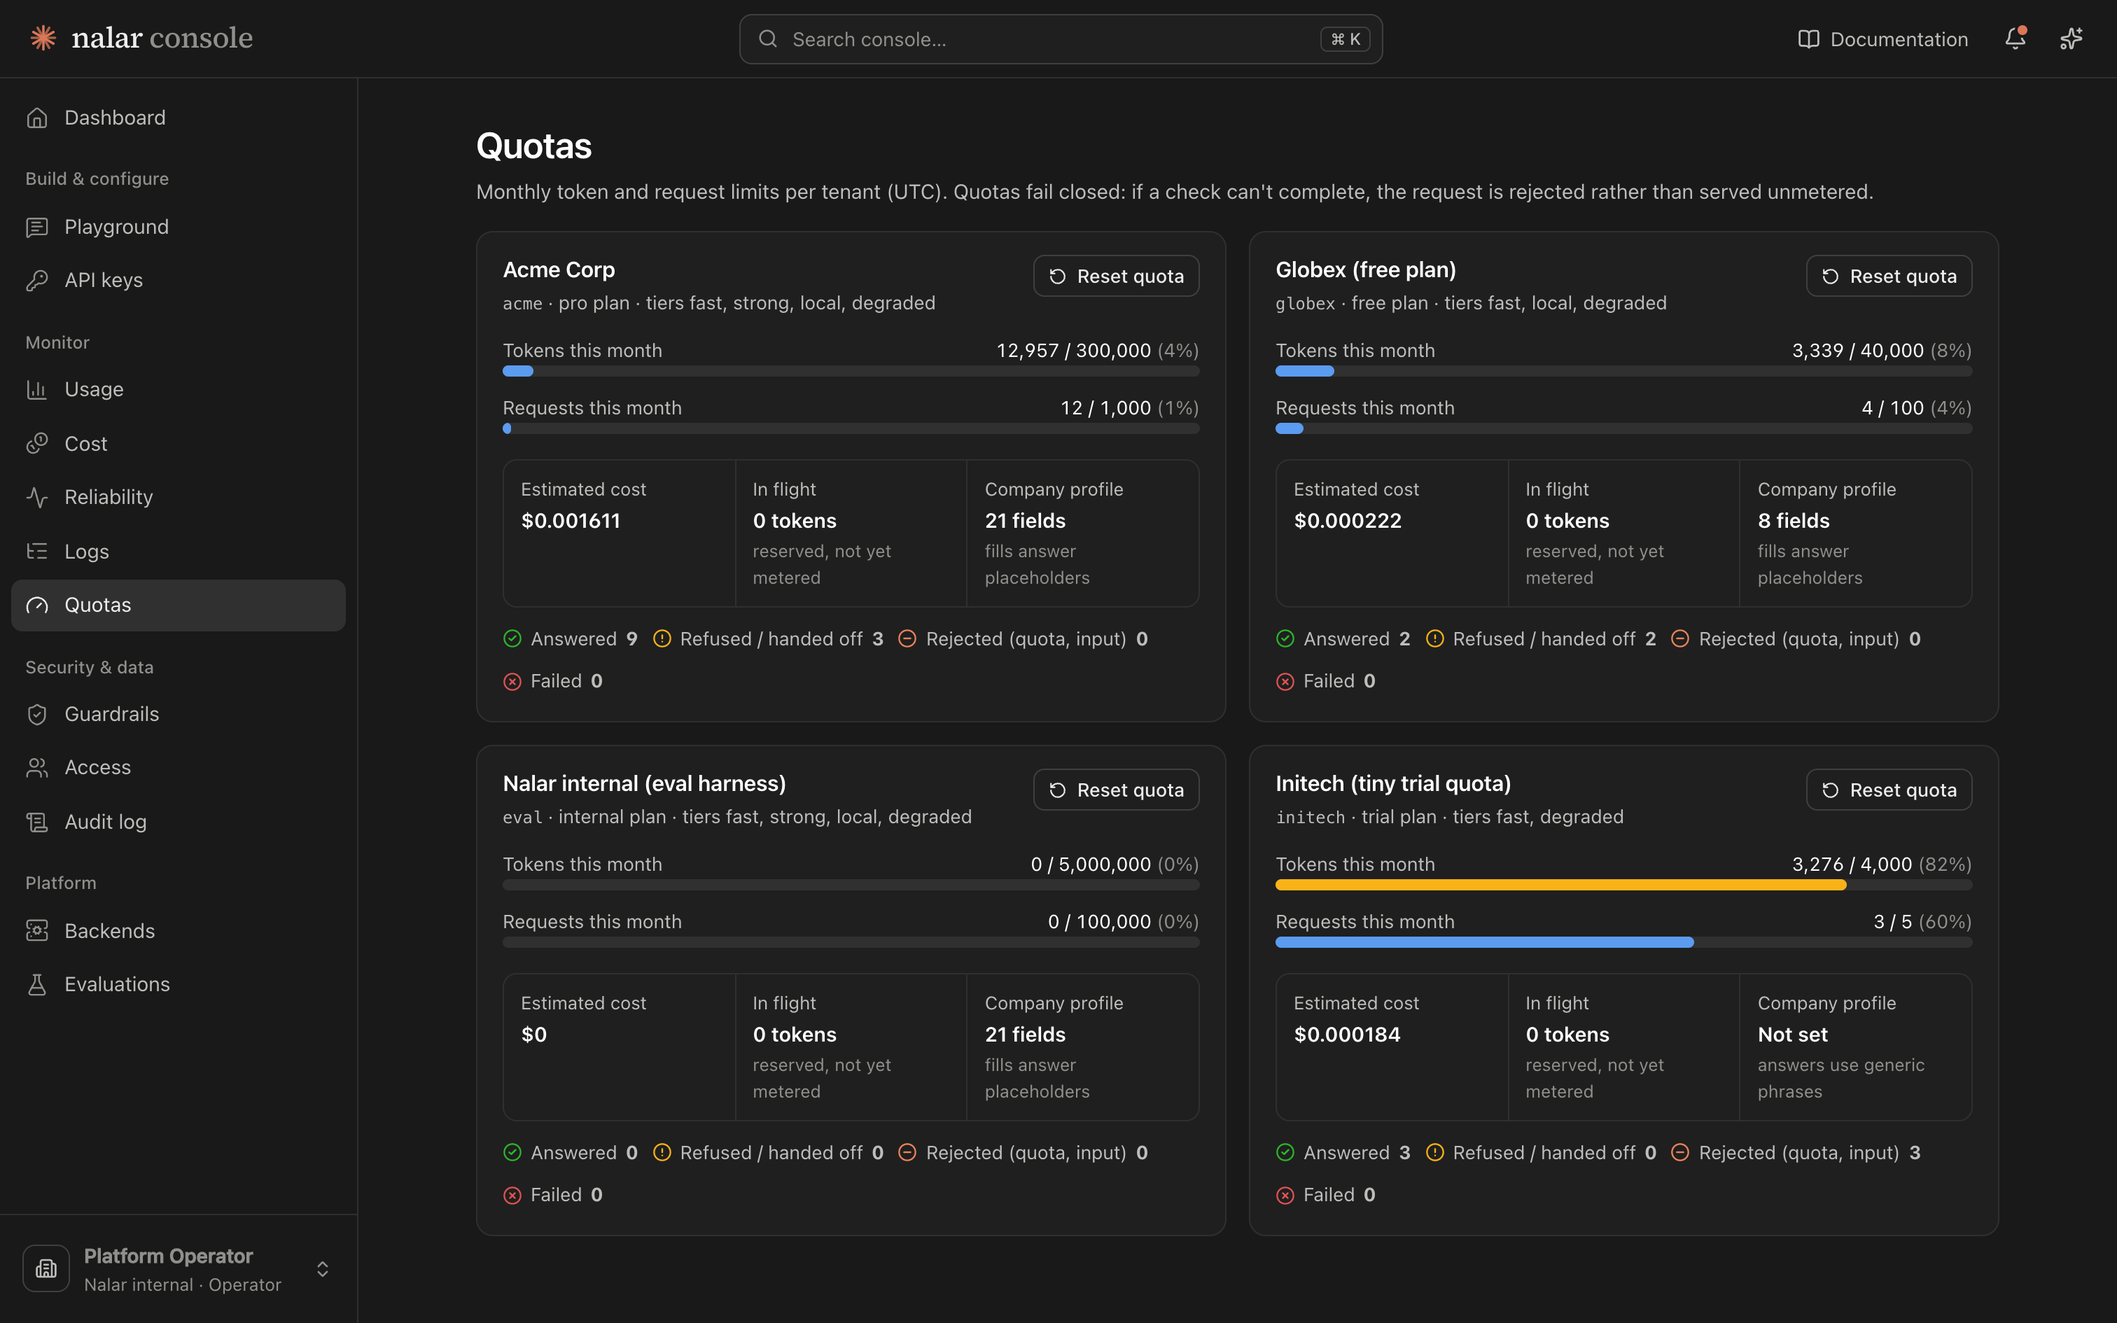
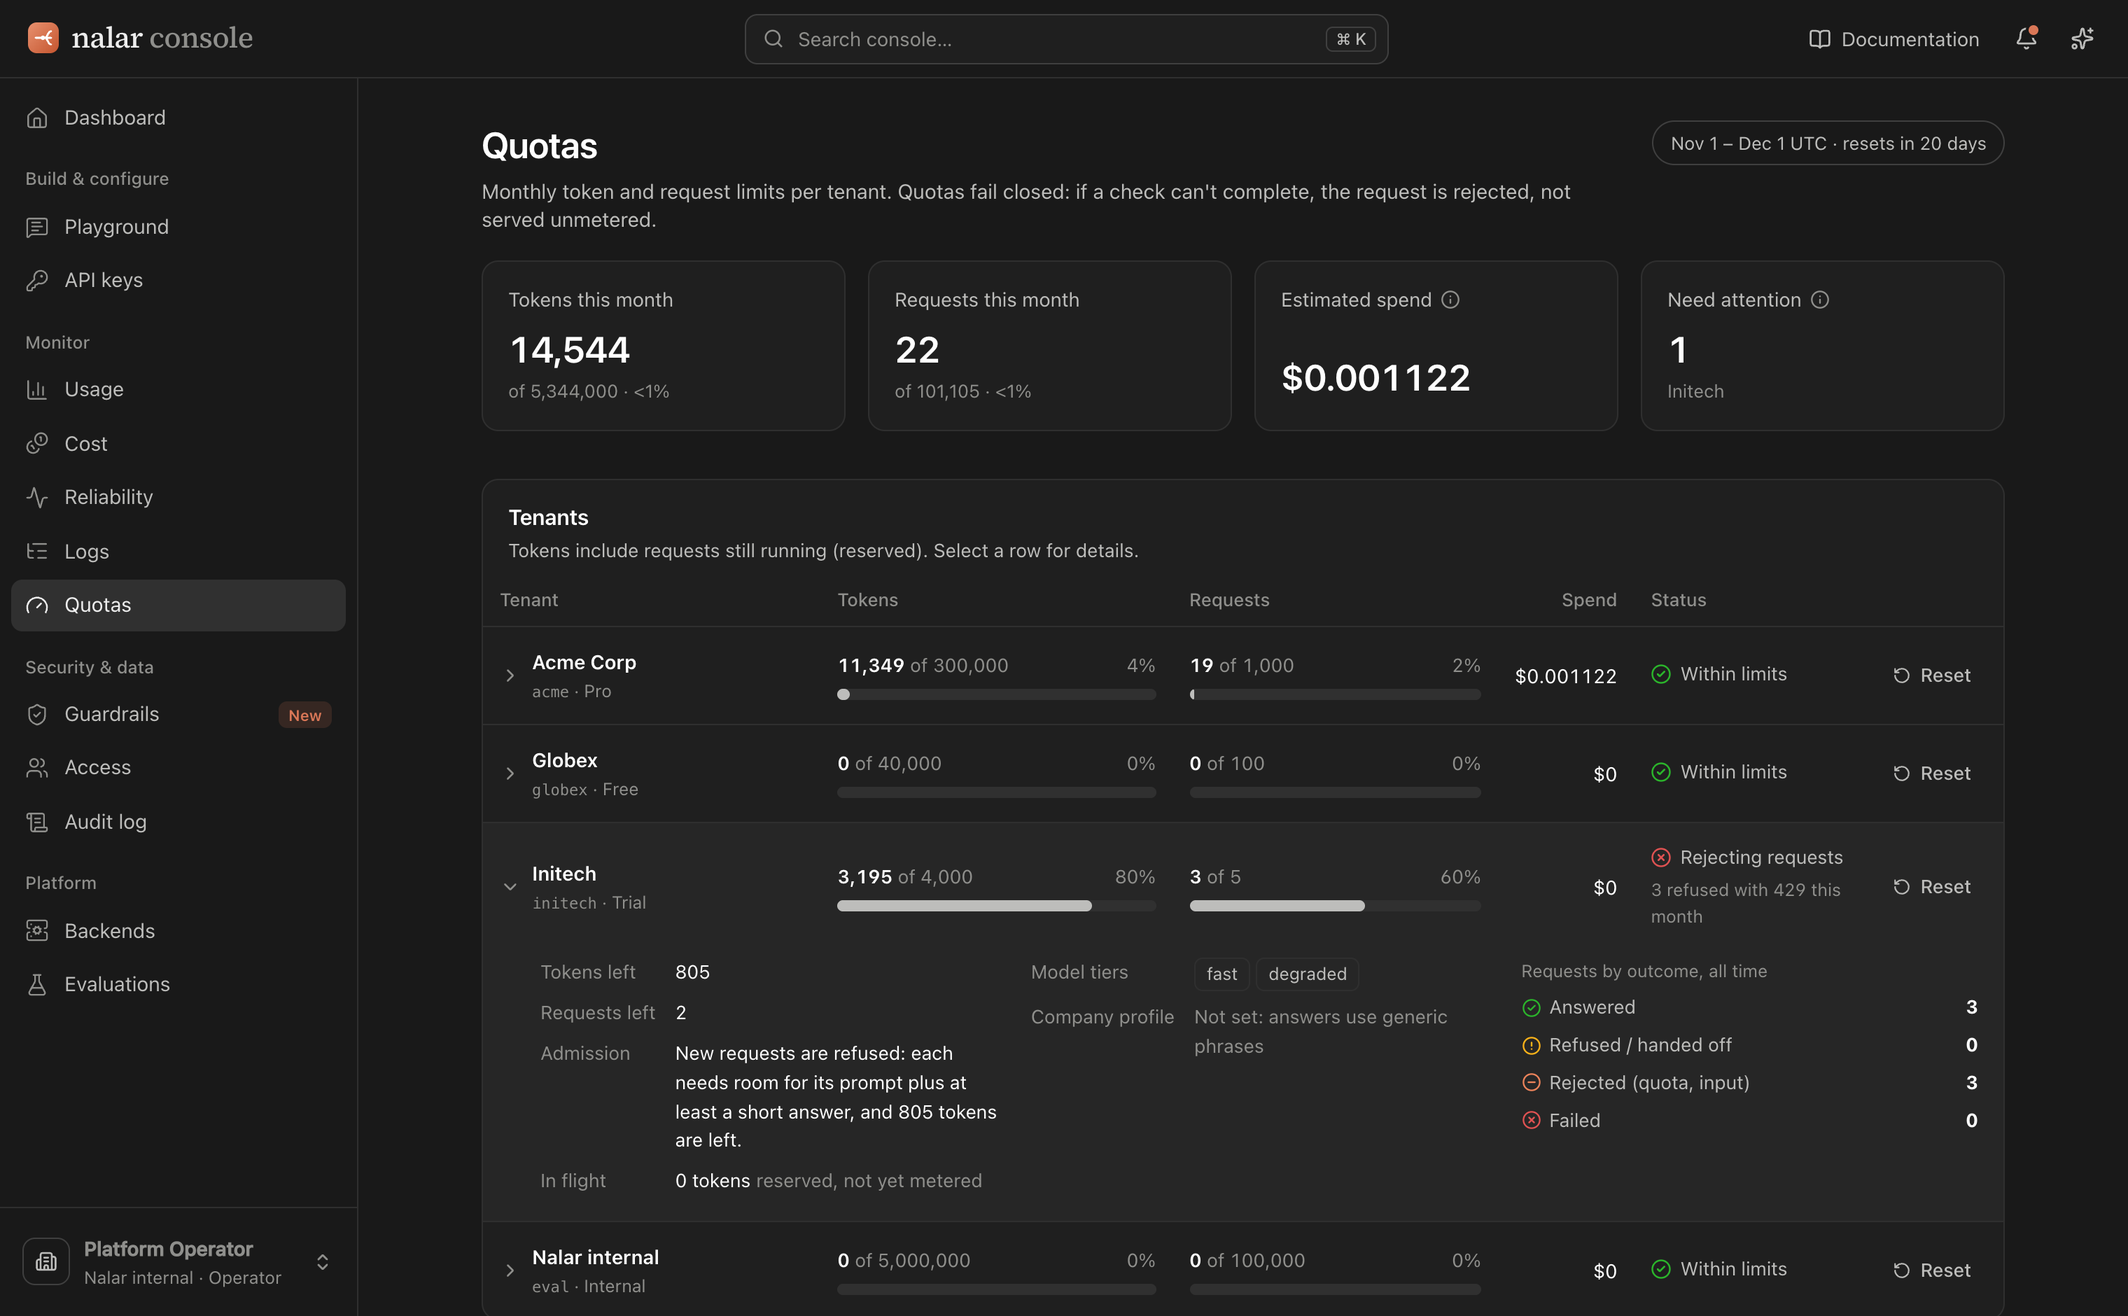
docs: OpenAI compatibility contract, Quotas page and PR #4 state

diff --git a/PROJECT.md b/PROJECT.md
@@ -1,6 +1,6 @@
 # PROJECT.md: state of the work, and how to pick it up
 
-This is the hand-off file for any new session, human or agent. Read it first, then [CLAUDE.md](CLAUDE.md) for code conventions and invariants. Last updated 2026-11-11 (PR #2 merged; PR #3 open: chat completions in the playground, `stream` toggle, original logo back).
+This is the hand-off file for any new session, human or agent. Read it first, then [CLAUDE.md](CLAUDE.md) for code conventions and invariants. Last updated 2026-11-11 (PR #3 merged; PR #4 open: OpenAI SDK compatibility, Quotas redesign, orange theme).
 
 ## What this is
 
@@ -30,7 +30,9 @@ The goal is to **stand out**, so judgement and honesty are part of what's assess
 - [ ] **Invite the assessors** to the private repo (GitHub → Settings → Collaborators), or make it public
 - [ ] **Rotate the Groq API key.** It was printed in a session transcript on 2026-11-10. Update `.env` and the Render env var.
 - [x] **Merge PR #2** (PII guardrail, Claude-Console redesign). Merged 2026-11-11.
-- [ ] **Merge PR #3** (chat completions + `stream` toggle in the playground, logo reverted). Merging redeploys Render; keep `DEMO_MODE=true` there or nobody can sign in.
+- [x] **Merge PR #3** (chat completions + `stream` toggle in the playground, logo reverted).
+- [ ] **Merge PR #4** (OpenAI SDK compatibility, Quotas redesign, orange theme). Merging redeploys Render and wipes the SQLite data (accepted for now); keep `DEMO_MODE=true`.
+- [ ] Refresh the README screenshots other than Quotas: they still show the old blue accent.
 - [ ] Before recording or submitting, sign in on the live console as `ops@nalar.example` and click **Run sample traffic** on the Reliability page. The Render disk is ephemeral, so metering is empty after every redeploy.
 - [ ] Add a short "Beyond the brief" section to `docs/REPORT.md`: sign-in/RBAC, API key management, PII guardrail, console redesign. Say why each was added and what it cost, so it reads as judgement rather than scope creep.
 - [ ] Submit: repo link, live URL, video link
@@ -38,7 +40,7 @@ The goal is to **stand out**, so judgement and honesty are part of what's assess
 ## Brief requirements vs status
 
 ### Gateway
-- [x] Chat endpoint with streaming, authenticated by a per-tenant API key: `POST /v1/chat/completions` (OpenAI-compatible SSE) and `POST /v1/support/answer` (SSE)
+- [x] Chat endpoint with streaming, authenticated by a per-tenant API key: `POST /v1/chat/completions` (OpenAI-compatible: JSON by default, SSE with `stream: true`) and `POST /v1/support/answer` (SSE)
 - [x] Per-tenant quota that fails closed with a clear error: monthly tokens and requests, atomic reservation, 429 `quota_exceeded` with `Retry-After`, 503 `quota_unavailable` on any DB error (`apps/gateway/src/quota.ts`)
 - [x] Metering per request (model, tokens, latency, estimated cost, outcome) in a database: SQLite `requests` plus per-attempt `attempts`, with `usage_source` as provider, estimated, mixed or none
 
@@ -75,7 +77,7 @@ The goal is to **stand out**, so judgement and honesty are part of what's assess
 - **Code:**
   - npm-workspaces monorepo: `apps/gateway` (Express 5, TypeScript, `node:sqlite`), `apps/console` (React 19, Vite 8, Astryx 0.7.13, hand-rolled SVG charts), `tools/eval`
   - **72 gateway tests** pass (incl. sign-in, sessions, CSRF, RBAC, tenant isolation, API keys, PII guardrail and error hygiene); CI (GitHub Actions) runs typecheck, tests, build and the retrieval eval
-- **Branches:** `main` has PR #1 (auth, RBAC, keys, first redesign). PR #2 (PII guardrail, governance pages, Claude-Console layout) is merged. PR #3 (`feat/console-completions-playground`) is open.
+- **Branches:** `main` has PR #1 (auth, RBAC, keys, first redesign). PR #2 (PII guardrail, governance pages, Claude-Console layout) is merged. PR #3 (chat playground, `stream` toggle) is merged. PR #4 (`feat/quotas-orange-openai-compat`) is open.
 - **Default prompt is v3:** it tells the model which placeholders the gateway can fill. v1 and v2 are kept for reproducible comparisons.
 - **Tenants:**
   - `acme` (pro), `globex` (free), `initech` (trial: 4k tokens / 5 requests, to demo exhausting the quota) and `eval` (shown as "Nalar internal", the operator's home tenant)
@@ -95,6 +97,7 @@ The goal is to **stand out**, so judgement and honesty are part of what's assess
   - Pages: Dashboard; Usage / Cost / Reliability (Pareto) / Logs / Quotas; a workbench playground with templates; Guardrails / Access / Audit log; Backends / Evaluations.
   - Dark by default; Inter + Source Serif 4. Sign-in has the SparkTrail from the user's stackbyte website.
   - PR #3: the playground calls support answer or chat completions, with a `stream: true|false` toggle and a Raw tab; the original gradient logo is back.
+  - PR #4: orange accent everywhere (the sign-in page's `#d97757`; light mode `#b4532f` for 4.5:1 text contrast), Astryx controls included; the logo gradient is orange. Quotas redesigned as stat cards plus a tenant table with a "Rejecting requests" status.
 - **Headline numbers:**
   - groq-fast vs groq-strong: intent accuracy 100% vs 100%, judge 4.47 vs 4.53, cost $0.092 vs $0.185 per 1k requests
   - answers showing raw placeholders: 15/30 → 0/30
@@ -146,6 +149,8 @@ The goal is to **stand out**, so judgement and honesty are part of what's assess
 | Astryx for controls, our own CSS for layout | the user asked for Astryx; versions are pinned (beta). `layers.css` sets cascade order so our resets lose to Astryx and our classes win. |
 | Claude-Console look | the user supplied Claude Console screenshots as the reference: dark default, chips, stat cards, workbench playground. |
 | Original logo, not the spark mark | the spark mark from PR #2 looked too close to the Claude Console's. The layout stays; only the mark went back to the gradient fan-out. |
+| OpenAI compatibility is tested with the real SDK | `stream` used to default to `true`, so `client.chat.completions.create()` without `stream` got SSE and broke. Now it follows OpenAI: JSON by default, `stream_options`, `max_completion_tokens`, text parts, `developer`, sampling params, `/v1/models`, OpenAI error `type`. `tests/openai-sdk.test.ts` runs the `openai` package against the gateway. Tools, `response_format` and images are rejected by name. |
+| Ephemeral SQLite on Render is accepted for now | the user decided a redeploy wiping usage is fine for the demo; Litestream → R2 or a paid disk are the options when it isn't. |
 | Playground covers both endpoints and `stream` | the completions endpoint had no place in the console; the playground now calls either one, streamed or as JSON, and the Raw tab shows the exact wire body. Still session-authed: the console twin of each `/v1` route uses the same spec. |
 
 ## Known issues and limitations
@@ -156,7 +161,7 @@ The goal is to **stand out**, so judgement and honesty are part of what's assess
 - **Hand-offs:** multi-intent, vague and Indonesian messages are refused with a hand-off instead of answered. This is deliberate and documented.
 - **Judge score:** v3 scores about 0.1 lower than v2-raw. The judge compares against template references; this is documented and not hidden.
 - **Token estimate:** chars/4 runs 6–17% high vs the provider. That's the safe direction for quota; such rows are labelled `estimated`.
-- **Chat endpoint:** `/v1/chat/completions` is single-model streaming, with no placeholder rendering. That's intentional: the raw path stays raw. It masks PII but does not restore it.
+- **Chat endpoint:** `/v1/chat/completions` is OpenAI's Chat Completions format (tested with the `openai` SDK), not Anthropic's Messages format; no tools, `response_format` or images. It has no placeholder rendering. That's intentional: the raw path stays raw. It masks PII but does not restore it.
 - **PII:** personal names aren't detected. A short message whose only content words sit next to PII can still be refused by the scope gate (lead-ins like "email me at" are already stripped for retrieval).
 - **Auth:** the sign-in failure limiter is in memory (fine for one instance). Users are seeded; there is no user management or password change UI.
 - **Console bundle** is about 1 MB (Astryx + CodeBlock); code-splitting by page would fix the Vite warning.
@@ -164,7 +169,7 @@ The goal is to **stand out**, so judgement and honesty are part of what's assess
 
 ## Next steps (in priority order)
 
-- [ ] Merge PR #3, check the live sign-in, the PII template and a chat run with `stream: false` on Render.
+- [ ] Merge PR #4, check the live sign-in, Quotas, and the OpenAI SDK against the live URL (`baseURL: https://nalar-router.onrender.com/v1`).
 - [ ] REPORT.md "Beyond the brief" section (see the checklist above).
 - [ ] Record the video demo (user). Optionally script it with `.agents/skills/product-demo` (writes to `out/product-demo/`).
 - [ ] Invite the assessors; rotate the Groq key.

diff --git a/docs/API.md b/docs/API.md
@@ -40,14 +40,29 @@ With `"stream": false` you get the same information as one JSON object, includin
 
 ## `POST /v1/chat/completions` (raw gateway, OpenAI-compatible)
 
+It follows OpenAI's Chat Completions contract, so the official OpenAI SDKs work by changing the base URL. It is checked against `openai` (Node) for: default JSON, `stream: true`, `stream_options.include_usage`, `max_completion_tokens`, text content parts, the `developer` role, sampling parameters, `models.list()` and a bad key raising `AuthenticationError`.
+
 ```bash
-curl -N http://localhost:3000/v1/chat/completions -H 'authorization: Bearer sk-acme-demo-7f3a9c' \
-  -H 'content-type: application/json' -d '{"messages":[{"role":"user","content":"hi"}],"model":"auto"}'
+curl http://localhost:3000/v1/chat/completions -H 'authorization: Bearer sk-acme-demo-7f3a9c' \
+  -H 'content-type: application/json' -d '{"model":"auto","messages":[{"role":"user","content":"hi"}]}'
 ```
 
-It streams standard `chat.completion.chunk`s. The final chunk carries `usage` and an `x_router` block with backend, fallback, cost and trace. Routing and attempt events also arrive as SSE comments (`: route {…}`, `: attempt {…}`, each with `t`, ms since the request started), which OpenAI clients ignore.
+- **`stream` defaults to `false`**, as in OpenAI: one `chat.completion` object. With `"stream": true` it sends `chat.completion.chunk`s and ends with `data: [DONE]`.
+- **Request fields:** `model` (`auto`, a tier such as `fast`, or a backend id; see `GET /v1/models`), `messages`, `stream`, `stream_options.include_usage`, `max_completion_tokens` (or the older `max_tokens`), `temperature`, `top_p`, `stop`, `seed`, `presence_penalty`, `frequency_penalty`, `n` (only 1) and `user` (accepted, not stored). Message `content` may be a string or an array of `text` parts; `developer` is treated as `system`.
+- **Not supported, rejected with a 400 that names the field:** tools and function calling, `response_format`, `logprobs`, and image or audio parts.
+- **Extensions:** an `x_router` block on the response (or on the final chunk) with backend, fallback, cost, route and attempts; `include_reasoning` to receive the model's reasoning (`delta.reasoning` while streaming); routing and attempt events as SSE comments (`: route {…}`, `: attempt {…}`, each with `t`, ms since the request started), which OpenAI clients ignore. The final content chunk also carries `usage`; with `stream_options.include_usage` a separate usage-only chunk (`choices: []`) follows, as OpenAI sends it.
+- **Errors** have OpenAI's shape: `{error: {message, type, param, code}}`, with `type` one of `invalid_request_error`, `authentication_error`, `permission_error`, `not_found_error`, `rate_limit_error`, `api_error`.
+- `id` is the gateway's request id (`req_…`) and `model` is the model that actually answered (for example `openai/gpt-oss-20b`), not the alias you sent.
 
-With `"stream": false` it returns one `chat.completion` object, with `x_router` (route, attempts, and reasoning when `include_reasoning` is set) alongside `choices` and `usage`. `/v1/support/answer` works the same way; `stream` defaults to `true` on both.
+This is OpenAI's format, not Anthropic's. Claude's Messages API (`POST /v1/messages`) returns `content` blocks, `stop_reason` and `usage.input_tokens`/`output_tokens`, and streams typed events (`message_start`, `content_block_delta`…). Claude models serve OpenAI-format clients only through Anthropic's separate OpenAI SDK compatibility layer.
+
+## `GET /v1/models`
+
+OpenAI's model list for the key's plan: `{object: "list", data: [{id, object: "model", created, owned_by}]}`. The ids are `auto`, then the tiers, then the backends the plan may use. It needs the `chat.completions` scope.
+
+```bash
+curl http://localhost:3000/v1/models -H 'authorization: Bearer sk-acme-demo-7f3a9c'
+```
 
 ## `GET /v1/backends`
 

diff --git a/README.md b/README.md
@@ -57,7 +57,7 @@
 - **Streaming:** Server-Sent Events, per-tenant API keys (stored only as SHA-256 hashes), strict input validation, and stable error codes.
 - **Monthly quota per tenant (tokens and requests):** each request pre-authorises its tokens in one atomic transaction, so two concurrent requests can't both spend the last tokens. The quota check fails closed: if it errors, the request gets 503 and no model is called. A request over quota gets 429 with `Retry-After`.
 - **Metering:** every request and every backend attempt is stored with the model, tokens (and whether they came from the provider or were estimated), latency, time to first token, estimated cost and outcome.
-- **OpenAI-compatible endpoint:** `/v1/chat/completions` for raw use, with an `x_router` block that explains routing.
+- **OpenAI-compatible endpoint:** `/v1/chat/completions` and `/v1/models` for raw use, tested with the official OpenAI SDK, with an `x_router` block that explains routing.
 
 ### Routing and fallback
 
@@ -105,7 +105,7 @@ The console follows the Claude Console's layout: a top bar with search (⌘K com
   - **Cost:** total, per 1,000 requests and per 1M tokens; cost stacked by backend or tenant; cost by tenant.
   - **Reliability:** answer rate, p95, fallback rate and rejections; a **Pareto** of why requests weren't answered (or of intents) with the 80% line; latency and fallback trends; traffic share. *Run sample traffic* sends 15 real requests.
   - **Logs:** every metered request, filterable by tenant, outcome, fallback and personal data, with a **route strip** and a drawer holding the routing decision and each attempt.
-  - **Quotas:** monthly token and request meters per tenant.
+  - **Quotas:** stat cards (tokens, requests, spend, tenants needing attention, the reset date), then one row per tenant with token and request meters, spend and a status. "Rejecting requests" shows as soon as a request is refused with 429, even below 100%, because each request reserves its prompt plus a minimum answer. A row opens to show what's left, model tiers, the company profile and outcomes.
 - **Security & data:**
   - **Guardrails:** PII policy, a live detector tester, and each built-in control with the file that enforces it.
   - **Access:** members and the role matrix.
@@ -361,7 +361,8 @@ curl -N http://localhost:3000/v1/support/answer \
 | endpoint | auth | what it does |
 |---|---|---|
 | `POST /v1/support/answer` | tenant key | The support capability. SSE events: `meta` → `route` → `retrieval` → `attempt`… → `intent` → `token`… → `done` (or `refusal` / `error`). Send `"stream": false` for a single JSON response. |
-| `POST /v1/chat/completions` | tenant key | Raw gateway, OpenAI-compatible chunks plus an `x_router` block |
+| `POST /v1/chat/completions` | tenant key | Raw gateway, OpenAI-compatible (works with the OpenAI SDKs; JSON by default, chunks with `stream: true`) plus an `x_router` block |
+| `GET /v1/models` | tenant key | OpenAI-format model list: `auto`, tiers and backends on the key's plan |
 | `GET /v1/backends` | tenant key | Every backend with its online/offline label, where it runs, and whether your plan may use it |
 | `GET /v1/usage` | tenant key | The calling tenant's usage and remaining quota |
 | `GET /v1/requests/:id` | tenant key | One of the tenant's own requests, with its attempts |

diff --git a/CLAUDE.md b/CLAUDE.md
@@ -67,6 +67,7 @@ Local model: `~/.venvs/mlx/bin/mlx_lm.server --model mlx-community/Qwen3.5-4B-ML
 - **The browser never gets a tenant API key or the admin token.** The console uses the session cookie + CSRF token; the playground goes through `/api/console/playground/support` and `/chat` (the same specs as the `/v1` routes, in `capability.ts`).
 - **Errors carry the least detail that still helps the caller.** Same 401 for unknown/revoked/expired keys and for wrong password/unknown account; 403 doesn't name the permission; upstream error text stays in the DB (operators only); 404 doesn't echo the path.
 - **PII never leaves the gateway unmasked under `mask`, and its values are never stored.** Scan before retrieval, routing and the prompt; restore only in the answer stream; trace events, logs and the `requests.pii` column carry types and counts, never values. Detectors must not mask order/invoice/tracking ids (tests cover this).
+- **`/v1/chat/completions` and `/v1/models` stay OpenAI-compatible.** `stream` defaults to `false`, errors carry OpenAI's `type`, and `tests/openai-sdk.test.ts` (the real `openai` package) must pass. Extensions go in `x_router` or SSE comments, never in OpenAI's own fields.
 - **A key's plaintext leaves the server once,** in the `POST /api/console/keys` response. Only its SHA-256 is stored.
 
 ## Agent skills (`.agents/skills`, linked in `.claude/skills`)
